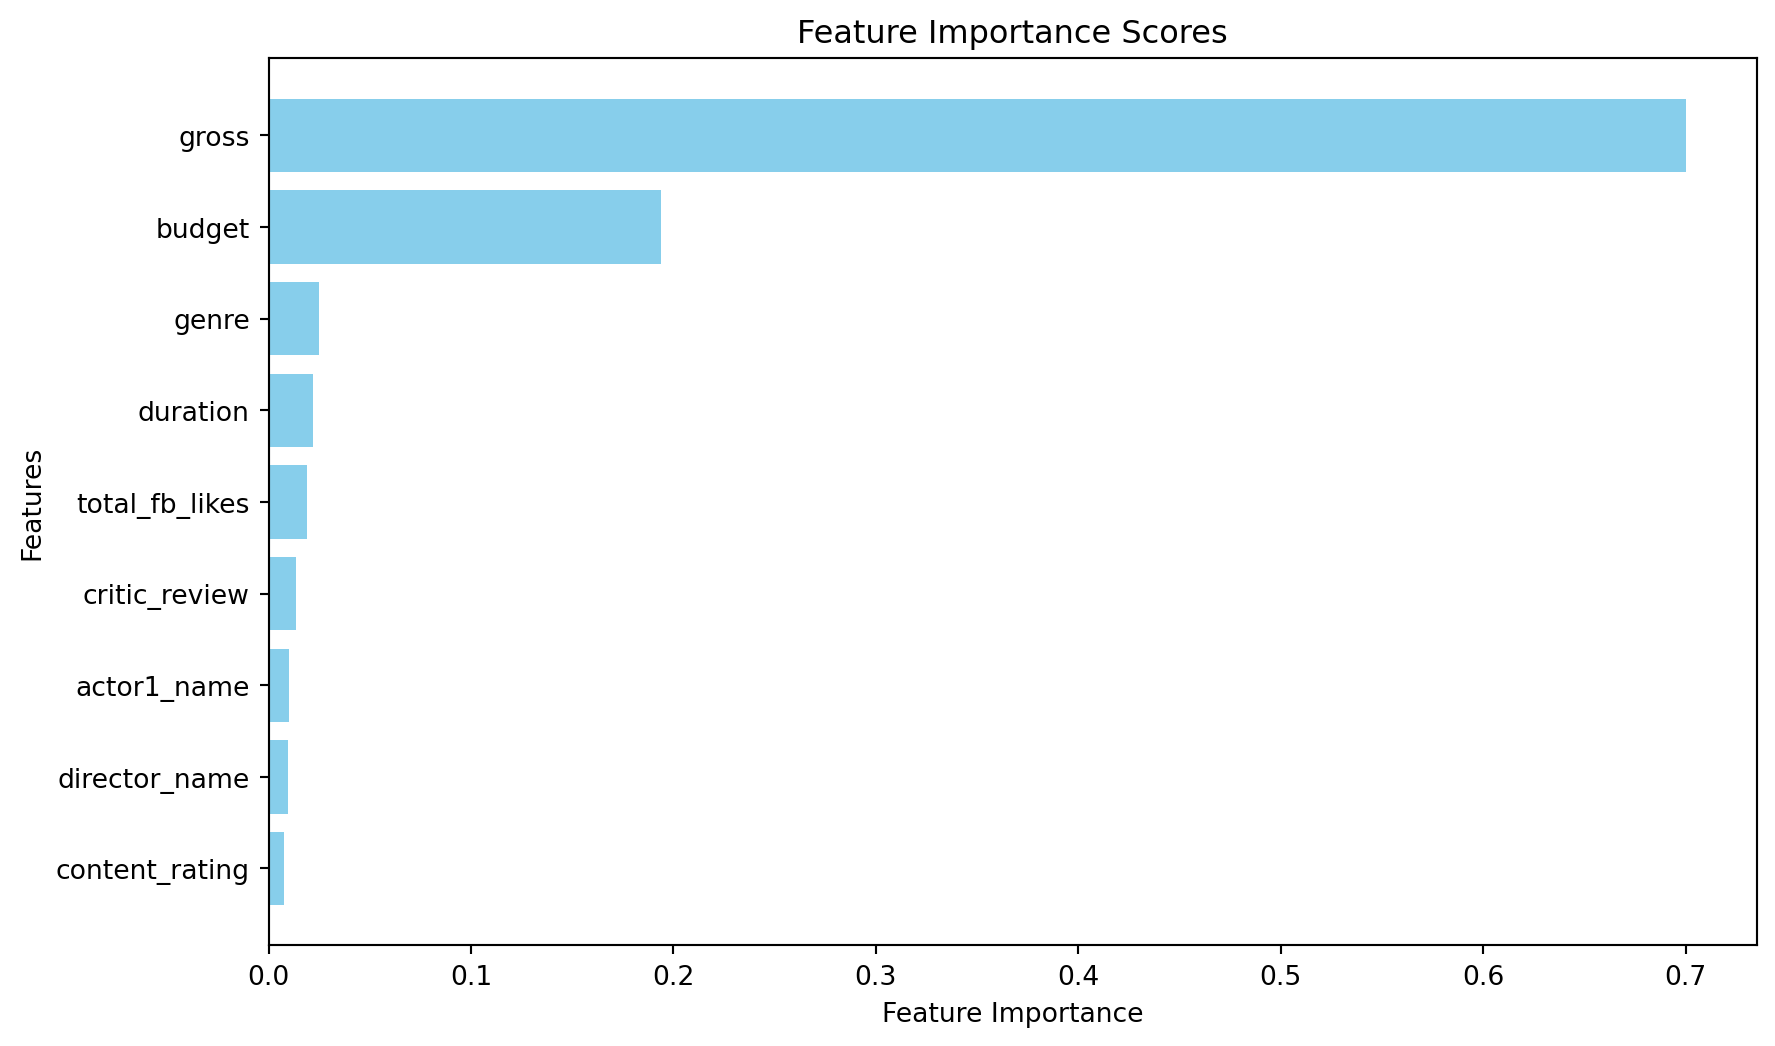
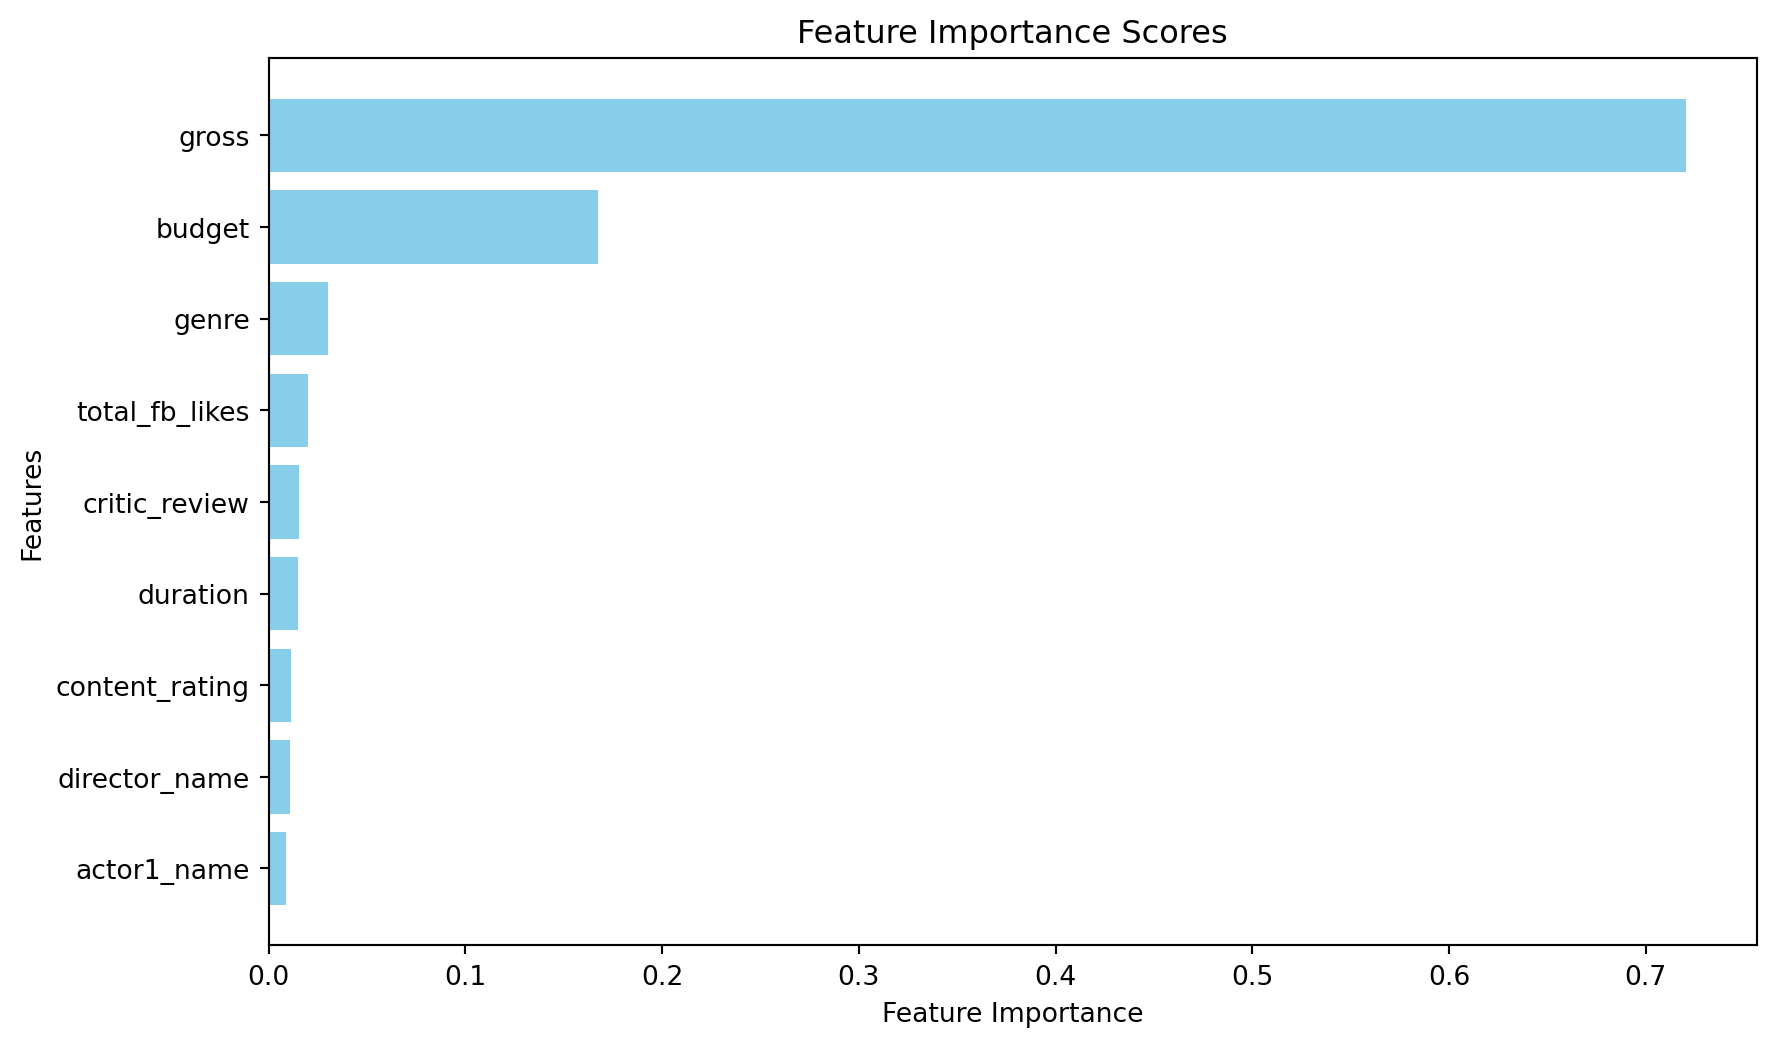
image change

diff --git a/docs/index.html b/docs/index.html
@@ -318,9 +318,9 @@ Rishav Khatiwada
 </a>
 </div>
 </div>
-<div class="quarto-post image-right" data-index="2" data-categories="news,code,analysis" data-listing-date-sort="1700370000000" data-listing-file-modified-sort="1701057756652" data-listing-date-modified-sort="NaN" data-listing-reading-time-sort="3">
+<div class="quarto-post image-right" data-index="2" data-categories="news,code,analysis" data-listing-date-sort="1700370000000" data-listing-file-modified-sort="1701134933980" data-listing-date-modified-sort="NaN" data-listing-reading-time-sort="3">
 <div class="thumbnail">
-<p><a href="./posts/K-means Clustering/index.html"> <img src="./posts/K-means Clustering/image.jpg" class="thumbnail-image"> </a></p>
+<p><a href="./posts/K-means Clustering/index.html"> <img src="./posts/K-means Clustering/image1.png" class="thumbnail-image"> </a></p>
 </div>
 <div class="body">
 <a href="./posts/K-means Clustering/index.html">
@@ -400,9 +400,9 @@ Harlow Malloc
 </a>
 </div>
 </div>
-<div class="quarto-post image-right" data-index="4" data-categories="news,code,analysis" data-listing-date-sort="1700370000000" data-listing-file-modified-sort="1700941567690" data-listing-date-modified-sort="NaN" data-listing-reading-time-sort="4">
+<div class="quarto-post image-right" data-index="4" data-categories="news,code,analysis" data-listing-date-sort="1700370000000" data-listing-file-modified-sort="1701134973238" data-listing-date-modified-sort="NaN" data-listing-reading-time-sort="4">
 <div class="thumbnail">
-<p><a href="./posts/Regression/index.html"> <img src="./posts/Regression/image.jpg" class="thumbnail-image"> </a></p>
+<p><a href="./posts/Regression/index.html"> <img src="./posts/Regression/image1.png" class="thumbnail-image"> </a></p>
 </div>
 <div class="body">
 <a href="./posts/Regression/index.html">

diff --git a/docs/posts/K-means Clustering/index.html b/docs/posts/K-means Clustering/index.html
@@ -1564,15 +1564,15 @@ C:\Users\poude\AppData\Local\Programs\Python\Python311\Lib\site-packages\sklearn
 <span id="cb26-17"><a href="#cb26-17" aria-hidden="true" tabindex="-1"></a><span class="bu">print</span>(feature_importance_movie)</span></code><button title="Copy to Clipboard" class="code-copy-button"><i class="bi"></i></button></pre></div>
 <div class="cell-output cell-output-stdout">
 <pre><code>          Feature  Importance
-6           gross    0.699982
-7          budget    0.193615
-3           genre    0.024820
-4        duration    0.021908
-8  total_fb_likes    0.019110
-1   critic_review    0.013473
-2     actor1_name    0.010217
-0   director_name    0.009468
-5  content_rating    0.007406</code></pre>
+6           gross    0.720278
+7          budget    0.167511
+3           genre    0.030435
+8  total_fb_likes    0.020072
+1   critic_review    0.015293
+4        duration    0.014967
+5  content_rating    0.011633
+0   director_name    0.010883
+2     actor1_name    0.008928</code></pre>
 </div>
 </div>
 <p>Visualizing this:</p>

diff --git a/docs/posts/Regression/index.html b/docs/posts/Regression/index.html
@@ -636,7 +636,7 @@ R-squared: 0.9906013999137329</code></pre>
 <span id="cb14-22"><a href="#cb14-22" aria-hidden="true" tabindex="-1"></a>pl.xticks(rotation<span class="op">=</span><span class="dv">45</span>)</span>
 <span id="cb14-23"><a href="#cb14-23" aria-hidden="true" tabindex="-1"></a>pl.show()</span></code><button title="Copy to Clipboard" class="code-copy-button"><i class="bi"></i></button></pre></div>
 <div class="cell-output cell-output-stderr">
-<pre><code>C:\Users\poude\AppData\Local\Temp\ipykernel_10500\584074123.py:19: FutureWarning: 
+<pre><code>C:\Users\poude\AppData\Local\Temp\ipykernel_12104\584074123.py:19: FutureWarning: 
 
 Passing `palette` without assigning `hue` is deprecated and will be removed in v0.14.0. Assign the `x` variable to `hue` and set `legend=False` for the same effect.
 
